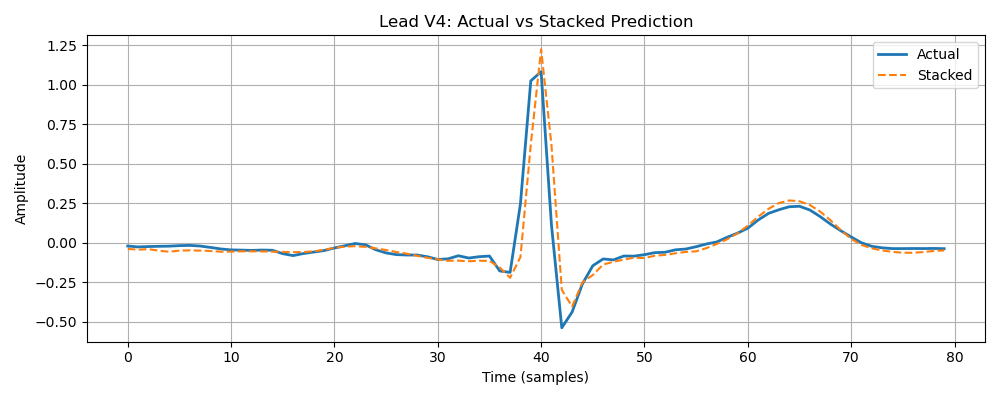
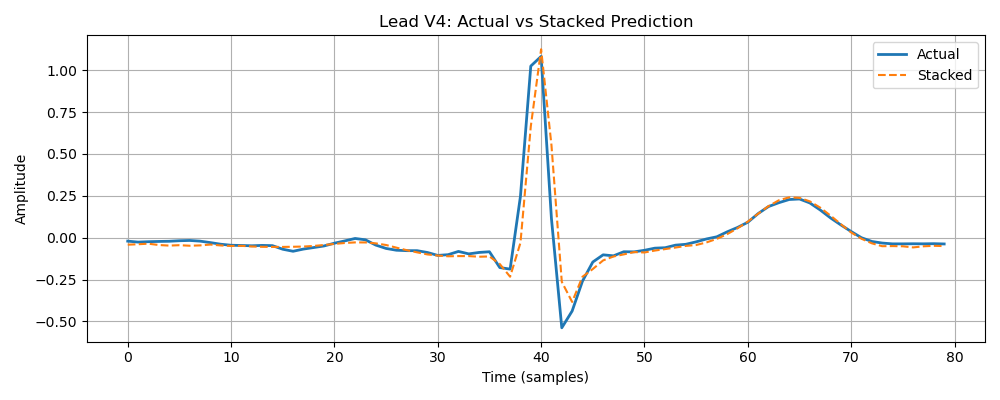
I, II, V2 (PQRST, Stats, Freq, Metadata, RR, PR, ST, QT, QRS Area/Duration, T-Wave Area). Removing PQRST outliers > 3σ. Stacking XGB + MLP. The best results so far.

diff --git a/QRS_to_Multilead_Reconstruction/PQRST_80_Extractor.py b/QRS_to_Multilead_Reconstruction/PQRST_80_Extractor.py
@@ -61,22 +61,18 @@ def find_qspt(signal, r_peaks, sampling_rate):
     post_samples = int(0.12 * sampling_rate)
     q_points, s_points, p_points, t_points = [], [], [], []
     for r in r_peaks:
-        # Q
         q_start = max(0, r - pre_samples)
         q_seg = signal[q_start:r]
         q = q_start + np.argmin(q_seg) if len(q_seg) > 0 else r
         q_points.append(q)
-        # S
         s_end = min(len(signal), r + post_samples)
         s_seg = signal[r:s_end]
         s = r + np.argmin(s_seg) if len(s_seg) > 0 else r
         s_points.append(s)
-        # P
         p_start = max(0, q - int(0.15 * sampling_rate))
         p_seg = signal[p_start:q]
         p = p_start + np.argmax(p_seg) if len(p_seg) > 0 else q
         p_points.append(p)
-        # T
         t_end = min(len(signal), s + int(0.4 * sampling_rate))
         t_seg = signal[s:t_end]
         t = s + np.argmax(t_seg) if len(t_seg) > 0 else s
@@ -93,17 +89,15 @@ def compute_duration(start, end):
         return np.nan
     return (end - start) / sampling_rate
 
-def build_dataset_with_stats(ecg_dataset, meta_df):
-    dataset = []
-    for i, sample in enumerate(tqdm(ecg_dataset, desc="Building dataset with stats (80 samples)")):
+def collect_amplitude_statistics(ecg_dataset, meta_df):
+    """First pass: collect all PQRST amplitudes to calculate global statistics"""
+    print("📊 First pass: Collecting amplitude statistics...")
+    all_amplitudes = {'P': [], 'Q': [], 'R': [], 'S': [], 'T': []}
+    
+    for i, sample in enumerate(tqdm(ecg_dataset, desc="Collecting amplitudes")):
         if i >= len(meta_df):
             break
-        row_meta = meta_df.iloc[i]
-        age = row_meta.get("age", 0)
-        sex = row_meta.get("sex", 0)
-        hr = row_meta.get("hr", 0)
-        onehot_features = {key: row_meta.get(key, 0) for key in encoded_features}
-
+        
         lead_i = sample[:, 0]
         lead_ii = sample[:, 1]
         lead_v2 = sample[:, lead_names.index('V2')]
@@ -133,6 +127,107 @@ def build_dataset_with_stats(ecg_dataset, meta_df):
                 continue
             start, end = r - padding, r + padding
             if start < 0 or end > sample.shape[0]:
+                continue
+
+            # Collect amplitudes from all three leads
+            amplitudes = [
+                lead_i[p_i[j]], lead_i[q_i[j]], lead_i[r], lead_i[s_i[j]], lead_i[t_i[j]],
+                lead_ii[p_ii[r_ii_idx]], lead_ii[q_ii[r_ii_idx]], lead_ii[r_ii[r_ii_idx]], 
+                lead_ii[s_ii[r_ii_idx]], lead_ii[t_ii[r_ii_idx]],
+                lead_v2[p_v2[r_v2_idx]], lead_v2[q_v2[r_v2_idx]], lead_v2[r_v2[r_v2_idx]], 
+                lead_v2[s_v2[r_v2_idx]], lead_v2[t_v2[r_v2_idx]]
+            ]
+            
+            for k, wave in enumerate(['P', 'Q', 'R', 'S', 'T']):
+                all_amplitudes[wave].extend([amplitudes[k], amplitudes[k+5], amplitudes[k+10]])
+
+    # Calculate statistics for each wave
+    amplitude_stats = {}
+    for wave in ['P', 'Q', 'R', 'S', 'T']:
+        data = np.array(all_amplitudes[wave])
+        mean = np.mean(data)
+        std = np.std(data)
+        amplitude_stats[wave] = {
+            'mean': mean,
+            'std': std,
+            'lower_bound': mean - 3 * std,
+            'upper_bound': mean + 3 * std
+
+        }
+        print(f"{wave}-wave: Mean={mean:.3f}, Std={std:.3f}, Range=[{mean-2*std:.3f}, {mean+2*std:.3f}]")
+    
+    return amplitude_stats
+
+def build_dataset_with_stats(ecg_dataset, meta_df, amplitude_stats):
+    """Second pass: build dataset with outlier filtering"""
+    print("\n🔧 Second pass: Building dataset with outlier filtering...")
+    dataset = []
+    total_segments_processed = 0
+    segments_filtered_by_amplitude = 0
+    segments_filtered_by_nan = 0
+    
+    for i, sample in enumerate(tqdm(ecg_dataset, desc="Building filtered dataset")):
+        if i >= len(meta_df):
+            break
+        row_meta = meta_df.iloc[i]
+        age = row_meta.get("age", 0)
+        sex = row_meta.get("sex", 0)
+        hr = row_meta.get("hr", 0)
+        onehot_features = {key: row_meta.get(key, 0) for key in encoded_features}
+
+        lead_i = sample[:, 0]
+        lead_ii = sample[:, 1]
+        lead_v2 = sample[:, lead_names.index('V2')]
+        lead_v3 = sample[:, lead_names.index('V3')]
+
+        r_i = nk.ecg_peaks(nk.ecg_clean(lead_i, sampling_rate), sampling_rate)[1]['ECG_R_Peaks']
+        r_ii = nk.ecg_peaks(nk.ecg_clean(lead_ii, sampling_rate), sampling_rate)[1]['ECG_R_Peaks']
+        r_v2 = nk.ecg_peaks(nk.ecg_clean(lead_v2, sampling_rate), sampling_rate)[1]['ECG_R_Peaks']
+        r_v3 = nk.ecg_peaks(nk.ecg_clean(lead_v3, sampling_rate), sampling_rate)[1]['ECG_R_Peaks']
+
+        if len(r_i) < 2 or len(r_ii) < 2 or len(r_v2) < 2 or len(r_v3) == 0:
+            continue
+
+        p_i, q_i, r_i, s_i, t_i = find_qspt(lead_i, r_i, sampling_rate)
+        p_ii, q_ii, r_ii, s_ii, t_ii = find_qspt(lead_ii, r_ii, sampling_rate)
+        p_v2, q_v2, r_v2, s_v2, t_v2 = find_qspt(lead_v2, r_v2, sampling_rate)
+        p_v3, q_v3, r_v3, s_v3, t_v3 = find_qspt(lead_v3, r_v3, sampling_rate)
+
+        for j in range(1, len(r_i)):
+            total_segments_processed += 1
+            r = r_i[j]
+            if j >= len(p_i) or j >= len(q_i) or j >= len(s_i) or j >= len(t_i):
+                continue
+            r_ii_idx = np.argmin(np.abs(r_ii - r))
+            r_v2_idx = np.argmin(np.abs(r_v2 - r))
+            r_v3_idx = np.argmin(np.abs(r_v3 - r))
+            if r_ii_idx >= len(p_ii) or r_v2_idx >= len(p_v2) or r_v3_idx >= len(p_v3):
+                continue
+            start, end = r - padding, r + padding
+            if start < 0 or end > sample.shape[0]:
+                continue
+
+            # --- AMPLITUDE OUTLIER CHECK ---
+            amplitudes_to_check = [
+                ('P', lead_i[p_i[j]]), ('Q', lead_i[q_i[j]]), ('R', lead_i[r]), 
+                ('S', lead_i[s_i[j]]), ('T', lead_i[t_i[j]]),
+                ('P', lead_ii[p_ii[r_ii_idx]]), ('Q', lead_ii[q_ii[r_ii_idx]]), 
+                ('R', lead_ii[r_ii[r_ii_idx]]), ('S', lead_ii[s_ii[r_ii_idx]]), 
+                ('T', lead_ii[t_ii[r_ii_idx]]),
+                ('P', lead_v2[p_v2[r_v2_idx]]), ('Q', lead_v2[q_v2[r_v2_idx]]), 
+                ('R', lead_v2[r_v2[r_v2_idx]]), ('S', lead_v2[s_v2[r_v2_idx]]), 
+                ('T', lead_v2[t_v2[r_v2_idx]])
+            ]
+            
+            is_amplitude_outlier = False
+            for wave_type, amplitude in amplitudes_to_check:
+                stats = amplitude_stats[wave_type]
+                if amplitude < stats['lower_bound'] or amplitude > stats['upper_bound']:
+                    is_amplitude_outlier = True
+                    break
+            
+            if is_amplitude_outlier:
+                segments_filtered_by_amplitude += 1
                 continue
 
             segment_i = lead_i[start:end]
@@ -173,6 +268,7 @@ def build_dataset_with_stats(ecg_dataset, meta_df):
             features_to_check += stats_list + freq_list
 
             if any(np.isnan(f) or np.isinf(f) for f in features_to_check):
+                segments_filtered_by_nan += 1
                 continue
 
             other_leads_waveforms = {
@@ -218,8 +314,16 @@ def build_dataset_with_stats(ecg_dataset, meta_df):
                 **onehot_features,
                 "source_index": i
             })
+    
+    # Print filtering statistics
+    print(f"\n📊 Filtering Statistics:")
+    print(f"Total segments processed: {total_segments_processed}")
+    print(f"Segments filtered due to amplitude outliers (>3σ): {segments_filtered_by_amplitude}")
+    print(f"Segments filtered due to NaN/Inf features: {segments_filtered_by_nan}")
+    print(f"Remaining segments in dataset: {len(dataset)}")
+    print(f"Retention rate: {len(dataset)/total_segments_processed*100:.1f}%")
+    
     return dataset
-
 
 if __name__ == "__main__":
     print("Loading data...")
@@ -227,10 +331,20 @@ if __name__ == "__main__":
     test_data = joblib.load(input_test_path)
     train_meta = pd.read_csv(meta_train_path)
     test_meta = pd.read_csv(meta_test_path)
-    print("Building datasets with stats (80 samples)...")
-    train_set = build_dataset_with_stats(train_data, train_meta)
-    test_set = build_dataset_with_stats(test_data, test_meta)
-    print("Saving...")
+    
+    print("\n=== TRAINING DATASET ===")
+    train_amplitude_stats = collect_amplitude_statistics(train_data, train_meta)
+    train_set = build_dataset_with_stats(train_data, train_meta, train_amplitude_stats)
+    
+    print("\n=== TEST DATASET ===")
+    test_amplitude_stats = collect_amplitude_statistics(test_data, test_meta)
+    test_set = build_dataset_with_stats(test_data, test_meta, test_amplitude_stats)
+    
+    print("\nSaving...")
     joblib.dump(train_set, output_dir / "pqrst_stats_train_80.pkl")
     joblib.dump(test_set, output_dir / "pqrst_stats_test_80.pkl")
-    print("✅ Done with V2-based PQRST dataset including QRS/T area and duration features!")
+    
+    print(f"\n✅ Final Results:")
+    print(f"Training dataset: {len(train_set)} segments")
+    print(f"Test dataset: {len(test_set)} segments")
+    print("Done with V2-based PQRST dataset including QRS/T area and duration features!")

diff --git a/QRS_to_Multilead_Reconstruction/PQRST_80_Statistics_Plots.py b/QRS_to_Multilead_Reconstruction/PQRST_80_Statistics_Plots.py
@@ -1,0 +1,111 @@
+import os
+import joblib
+import numpy as np
+import matplotlib.pyplot as plt
+from pathlib import Path
+
+def analyze_pqrst_distribution_per_lead(dataset_path, output_dir):
+    """Analyze PQRST distribution per lead and generate plots"""
+    # Load dataset
+    dataset = joblib.load(dataset_path)
+    
+    # Create output directory
+    plot_dir = Path(output_dir)
+    plot_dir.mkdir(parents=True, exist_ok=True)
+    
+    # Initialize data containers
+    leads = ['I', 'II', 'V2']
+    waves = ['P', 'Q', 'R', 'S', 'T']
+    
+    # Position and amplitude containers: lead -> wave -> values
+    positions = {lead: {wave: [] for wave in waves} for lead in leads}
+    amplitudes = {lead: {wave: [] for wave in waves} for lead in leads}
+    
+    # Collect data from all segments
+    for segment in dataset:
+        for lead in leads:
+            key = f'pqrst_lead_{lead}'
+            pqrst_data = segment.get(key, [])
+            if len(pqrst_data) == 5:  # Ensure we have all 5 points
+                for i, wave in enumerate(waves):
+                    time_sec, amplitude = pqrst_data[i]
+                    positions[lead][wave].append(time_sec)
+                    amplitudes[lead][wave].append(amplitude)
+    
+    # Plotting function with enhanced statistics
+    def plot_distribution(data, wave, value_type, lead, ax):
+        """Plot distribution with statistical markers"""
+        data = np.array(data)
+        mean = np.mean(data)
+        std = np.std(data)
+        median = np.median(data)
+        
+        # Identify outliers (beyond 3σ)
+        lower_bound = mean - 3 * std
+        upper_bound = mean + 3 * std
+        outliers = data[(data < lower_bound) | (data > upper_bound)]
+        
+        # Plot histogram
+        n, bins, patches = ax.hist(data, bins=50, alpha=0.7, color='skyblue', edgecolor='black')
+        
+        # Add statistical markers
+        ax.axvline(mean, color='red', linestyle='-', linewidth=1.5, label=f'Mean: {mean:.3f}')
+        ax.axvline(median, color='green', linestyle='-', linewidth=1.5, label=f'Median: {median:.3f}')
+        ax.axvline(mean - std, color='orange', linestyle='--', linewidth=1, label=f'±1σ: {std:.3f}')
+        ax.axvline(mean + std, color='orange', linestyle='--', linewidth=1)
+        ax.axvline(mean - 3*std, color='purple', linestyle=':', linewidth=0.8, label=f'±3σ: {3*std:.3f}')
+        ax.axvline(mean + 3*std, color='purple', linestyle=':', linewidth=0.8)
+
+        
+        # Highlight outliers
+        if len(outliers) > 0:
+            for outlier in outliers:
+                ax.axvline(outlier, color='red', alpha=0.3)
+            ax.text(0.95, 0.90, f'Outliers: {len(outliers)}', 
+                    transform=ax.transAxes, ha='right', color='red')
+        
+        # Add text box with statistics
+        stats_text = f'Mean: {mean:.3f}\nStd: {std:.3f}\nMedian: {median:.3f}'
+        ax.text(0.95, 0.80, stats_text, transform=ax.transAxes, 
+                ha='right', va='top', bbox=dict(boxstyle='round', facecolor='white', alpha=0.8))
+        
+        ax.set_title(f'Lead {lead} - {wave}-wave {value_type}', fontsize=14)
+        ax.set_xlabel('Time (s)' if value_type == 'Position' else 'Amplitude (mV)', fontsize=12)
+        ax.set_ylabel('Frequency', fontsize=12)
+        ax.grid(alpha=0.3)
+        ax.legend(loc='upper left')
+    
+    # Generate and save plots
+    for wave in waves:
+        fig, axes = plt.subplots(3, 2, figsize=(15, 15))
+        fig.suptitle(f'{wave}-Wave Distribution Analysis', fontsize=16)
+        
+        for i, lead in enumerate(leads):
+            # Position distribution
+            plot_distribution(
+                positions[lead][wave], 
+                wave, 'Position', lead, 
+                axes[i, 0]
+            )
+            
+            # Amplitude distribution
+            plot_distribution(
+                amplitudes[lead][wave], 
+                wave, 'Amplitude', lead, 
+                axes[i, 1]
+            )
+        
+        plt.tight_layout(rect=[0, 0, 1, 0.96])
+        plt.savefig(plot_dir / f'{wave}_wave_distribution.png', dpi=300)
+        plt.close()
+    
+    return f"✅ Saved PQRST distribution plots to {plot_dir}"
+
+if __name__ == "__main__":
+    # Configure paths - update with your actual dataset path
+    dataset_path = "PQRST_80_Datasets/pqrst_stats_train_80.pkl"
+    output_dir = "PQRST_Distribution_Plots_Per_Wave"
+    
+    # Run analysis
+    result = analyze_pqrst_distribution_per_lead(dataset_path, output_dir)
+    print(result)
